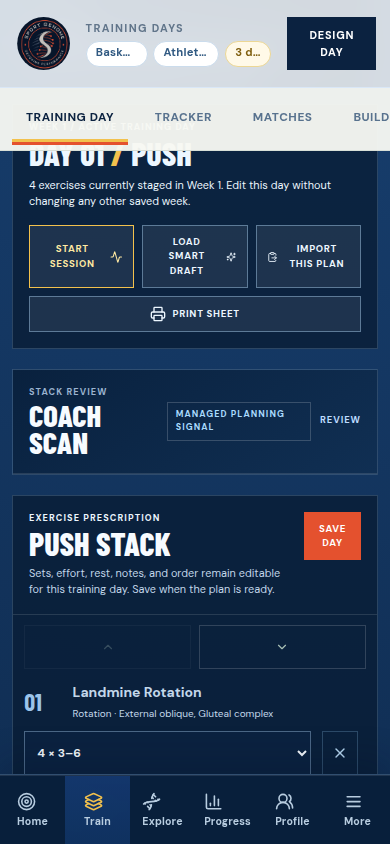
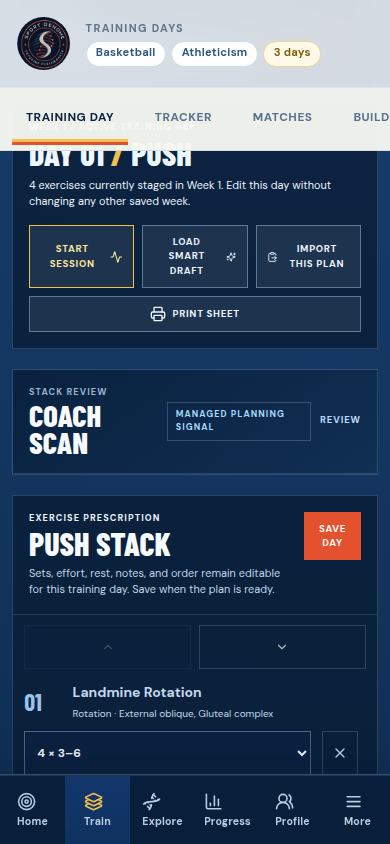
Checkpoint: Publish the mobile header readability refinement. The duplicate mobile Design Day button is hidden because Training Day already has a dedicated bottom destination and contextual tab; that freed space now keeps the saved sport, goal, and training-day context labels fully readable at 390px

Changed region(s): [[0.3385, 0.0, 0.9846, 0.0924]]

diff --git a/client/src/index.css b/client/src/index.css
@@ -664,7 +664,7 @@ select {
 .topbar-context-chips { display: flex; min-width: 0; flex-wrap: wrap; gap: .35rem; margin-top: .32rem; }
 .topbar-context-chips span { max-width: 12rem; overflow: hidden; border: 1px solid #cbdcec; border-radius: 999px; background: #fff; padding: .24rem .58rem; color: #315a82; font-size: .7rem; font-weight: 750; letter-spacing: .02em; line-height: 1.1; text-overflow: ellipsis; white-space: nowrap; }
 .topbar-context-chips span:last-child { border-color: #ecd795; background: #fff9e8; color: #806012; }
-@media (max-width: 640px) { .apex-topbar { min-height: 5.5rem; padding: .55rem .85rem; } .apex-topbar .metric-label { font-size: .68rem; letter-spacing: .12em; } .topbar-brand-logo { width: 60px; height: 60px; } .topbar-context-chips { flex-wrap: nowrap; max-width: calc(100vw - 11.5rem); overflow: hidden; } .topbar-context-chips span { max-width: 7.4rem; flex: 0 1 auto; } .topbar-context-chips span:last-child { max-width: 4.5rem; } }
+@media (max-width: 640px) { .apex-topbar { min-height: 5.5rem; padding: .55rem .85rem; } .apex-topbar .metric-label { font-size: .68rem; letter-spacing: .12em; } .topbar-brand-logo { width: 60px; height: 60px; } .topbar-context-chips { flex-wrap: nowrap; max-width: calc(100vw - 6.8rem); overflow: visible; } .topbar-context-chips span { max-width: none; flex: 0 0 auto; } .topbar-context-chips span:last-child { max-width: none; } }
 
 /* Retire legacy neon accents from the authenticated command and inspection surfaces. */
 .command-hero .metric-label, .command-hero h1 em, .command-signal-card .metric-label, .command-signal-card button { color: #f2c14d !important; }

diff --git a/client/src/mobile-navigation.css b/client/src/mobile-navigation.css
@@ -25,12 +25,10 @@
   .apex-topbar > div { align-items: center; }
   .apex-topbar .metric-label { font-size: .7rem; letter-spacing: .1em; }
   .topbar-brand-logo { width: 52px; height: 52px; }
-  .topbar-context-chips { gap: .3rem; margin-top: .22rem; max-width: calc(100vw - 10rem); }
-  .topbar-context-chips span { min-height: 1.6rem; max-width: 6.7rem; padding: .26rem .52rem; font-size: .66rem; }
-  .topbar-context-chips span:last-child { max-width: 4.75rem; }
+  .topbar-context-chips { flex-wrap: nowrap; gap: .3rem; margin-top: .22rem; max-width: calc(100vw - 6.8rem); }
+  .topbar-context-chips span { flex: 0 0 auto; min-height: 1.6rem; max-width: none; padding: .26rem .52rem; font-size: .66rem; white-space: nowrap; }
   .apex-topbar p.text-sm { max-width: 176px; overflow: hidden; font-size: .86rem; line-height: 1.25; text-overflow: ellipsis; white-space: nowrap; }
-  .apex-topbar button:last-child { min-width: 48px; min-height: 48px; padding: .62rem .78rem; font-size: .68rem; letter-spacing: .07em; }
-  .apex-topbar button:last-child svg { display: none; }
+  .apex-topbar button:last-child { display: none; }
   .workspace-top-switcher { top: 78px; min-height: 54px; gap: .42rem; overflow-x: auto; overscroll-behavior-x: contain; padding: .35rem .75rem; scroll-padding-inline: .75rem; scroll-snap-type: x proximity; scrollbar-width: none; }
   .workspace-top-switcher::-webkit-scrollbar { display: none; }
   .workspace-top-switcher button { min-width: max-content; min-height: 46px; padding: .55rem .78rem; font-size: .74rem; letter-spacing: .045em; scroll-snap-align: start; }

diff --git a/client/src/pages/Home.mobileNavigation.test.ts b/client/src/pages/Home.mobileNavigation.test.ts
@@ -140,8 +140,11 @@ describe("workspace side navigation", () => {
     expect(source).toContain('Current planning context: ${selectedSport.label}, ${goal}, ${trainingDays} training days');
     expect(source).not.toContain('selectedSport.label} <span className="mx-1.5 text-[#a2aca4]">/</span> {goal}');
     expect(css).toContain('.topbar-context-chips span { max-width: 12rem; overflow: hidden;');
-    expect(css).toContain('text-overflow: ellipsis; white-space: nowrap;');
-    expect(mobileStyles).toContain('max-width: calc(100vw - 10rem);');
+    expect(css).toContain('max-width: calc(100vw - 6.8rem); overflow: visible;');
+    expect(css).toContain('.topbar-context-chips span { max-width: none; flex: 0 0 auto; }');
+    expect(mobileStyles).toContain('max-width: calc(100vw - 6.8rem);');
+    expect(mobileStyles).toContain('flex: 0 0 auto;');
+    expect(mobileStyles).toContain('.apex-topbar button:last-child { display: none; }');
   });
 
   it("retains one explicit active contextual route for every Train and Explore tab", () => {
